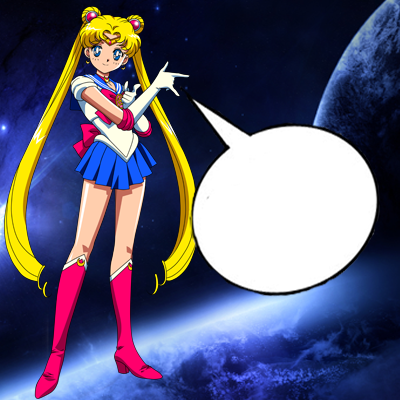
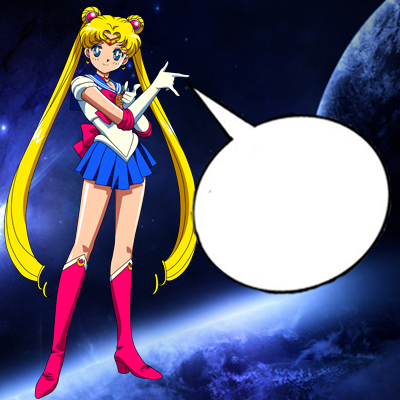
Lite  grafiskt
Ändrat lite med bakgrunden och texten i pratbubblan

Changed region(s): [[0.45, 0.21, 0.99, 0.75]]

diff --git a/src/ShowYolo.java b/src/ShowYolo.java
@@ -98,11 +98,11 @@ public class ShowYolo extends JFrame {
 		
 		
 		final JLabel label = new JLabel("");
-		label.setBounds(215, 153, 153, 61);
+		label.setBounds(221, 153, 147, 61);
 		contentPane.add(label);
 		
 		final JLabel lblNewLabel_2 = new JLabel("");
-		lblNewLabel_2.setBounds(215, 211, 153, 61);
+		lblNewLabel_2.setBounds(221, 213, 155, 67);
 		contentPane.add(lblNewLabel_2);
 		
 		
